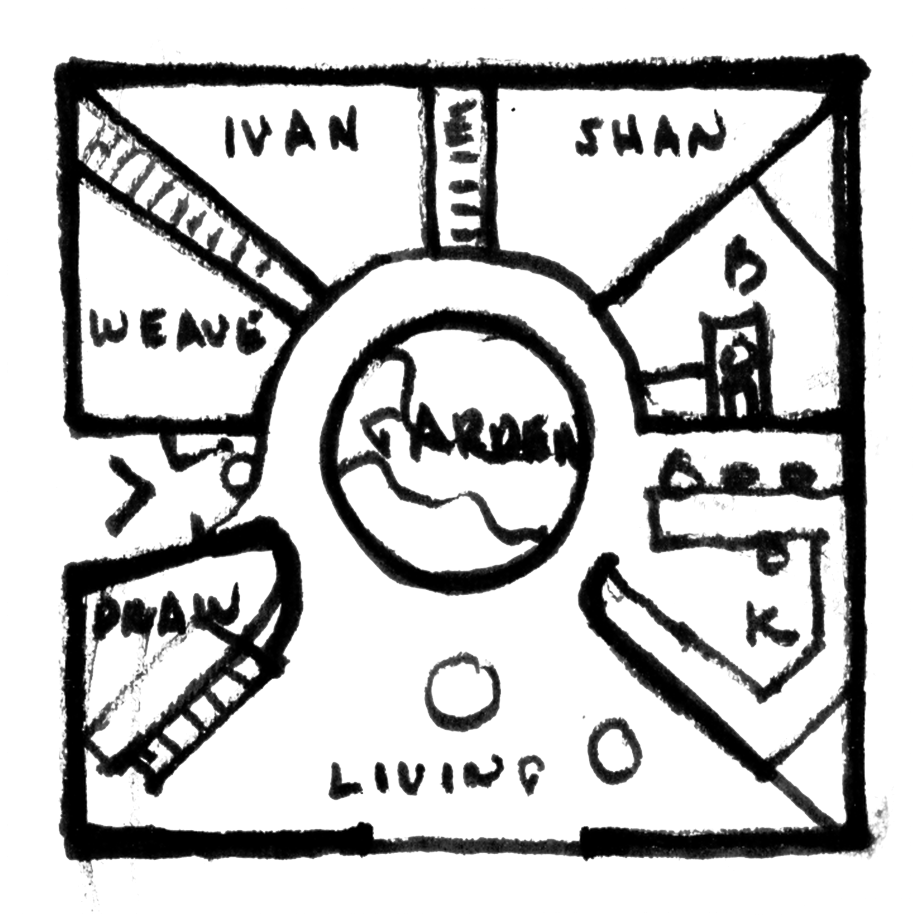
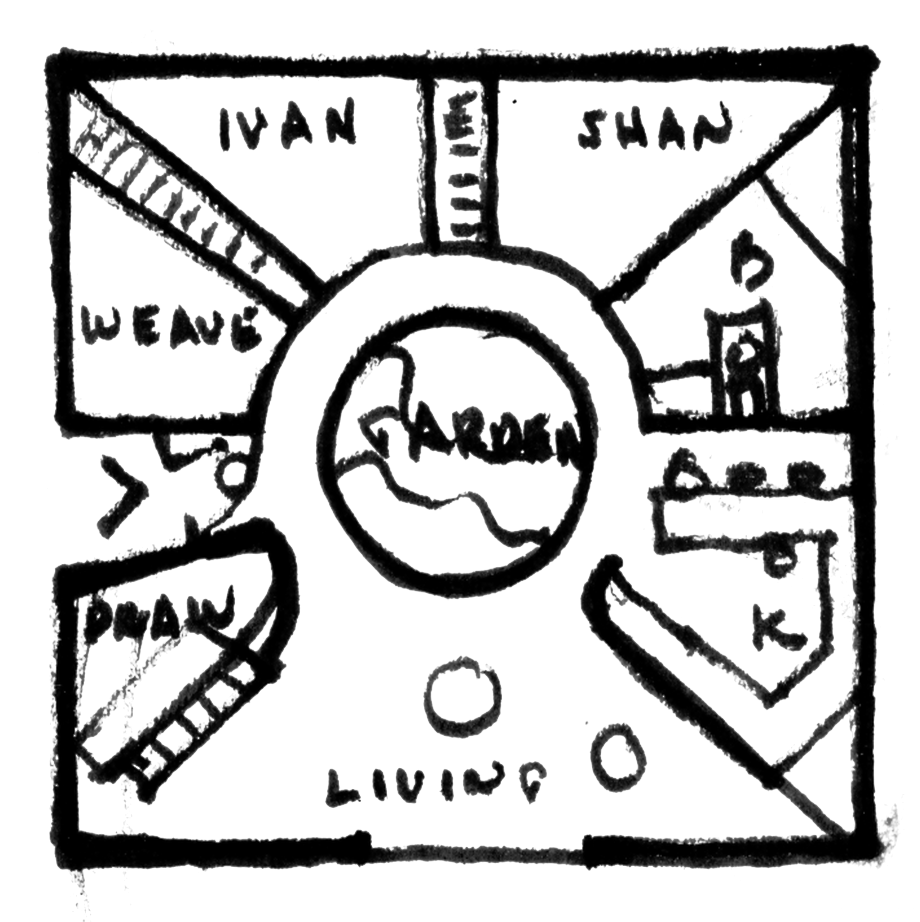
entry-test2 v0.80: realign flying sketch to the updated baked plan; shorter rests
The updated MATCHCUT TIF put the baked sketch a few px off the old
registration constants, so the flying overlay ghosted against it.
Re-derived the landing by template-matching the overlay's ink against
the sheet -> SKB (477,356,1119,999); overlay re-cropped tight to its ink
so the rect maps 1:1. Verified aligned at the crossfade. Also reduced
the three equal sheet rests 0.35 -> 0.2; downstream -0.45.

diff --git a/entry-test2.html b/entry-test2.html
@@ -1,5 +1,5 @@
 <!DOCTYPE html>
-<!-- entry-test2 v0.79 — the sectioned entry (Brandon, 2026-07-21):
+<!-- entry-test2 v0.80 — the sectioned entry (Brandon, 2026-07-21):
      HERO (film loop, no scrim; Hunter's 1970 NAMEBLOCK centred,
        riding off with the photo; wordmark fades in top-left) ->
      HOUSE: the 1970 letter sketch + Hunter's OWN WORDS (L001) beside the
@@ -241,12 +241,12 @@
 <div id="wordmark" style="position:fixed;top:0;left:0;z-index:8;padding:17px 34px;font-weight:800;font-size:14px;letter-spacing:.04em;text-transform:uppercase;color:#1b1918;white-space:nowrap;transform-origin:50% 50%;will-change:transform">Hunter House</div>
 <nav id="menu" aria-label="Site" style="position:fixed;top:0;left:0;right:0;z-index:8;display:flex;justify-content:center;padding:18px 34px;font-family:'JetBrains Mono',Menlo,monospace;font-size:11px;letter-spacing:.16em;text-transform:uppercase;color:rgba(27,25,24,.62);transform:translateY(-110%);opacity:0;will-change:transform,opacity">
   <a data-z="1" style="padding:6px 15px;cursor:pointer">House</a>
-  <a data-z="12.65" style="padding:6px 15px;cursor:pointer">Hunter</a>
-  <a data-z="14.25" style="padding:6px 15px;cursor:pointer">Site</a>
+  <a data-z="12.2" style="padding:6px 15px;cursor:pointer">Hunter</a>
+  <a data-z="13.8" style="padding:6px 15px;cursor:pointer">Site</a>
   <a style="padding:6px 15px">Archive</a>
   <a style="padding:6px 15px">About</a>
 </nav>
-<div id="ver" style="position:fixed;right:12px;bottom:10px;z-index:9;font-family:'JetBrains Mono',Menlo,monospace;font-size:9px;letter-spacing:.06em;color:rgba(27,25,24,.35);pointer-events:none">v0.79</div>
+<div id="ver" style="position:fixed;right:12px;bottom:10px;z-index:9;font-family:'JetBrains Mono',Menlo,monospace;font-size:9px;letter-spacing:.06em;color:rgba(27,25,24,.35);pointer-events:none">v0.80</div>
 
 <script>
 // entry-test2 v0.36 — z: 0..1 the entry photograph (title → wordmark) ·
@@ -281,9 +281,9 @@
   // across the viewport height. Pairs of identical views = dwells.
   var SHEET_VIEWS = [
     { z: 2.00, cx: 814,  cy: 669,  rot: 0,    fit: 830 },   // the square plan, filling the vertical
-    { z: 3.40, cx: 814,  cy: 669,  rot: 0,    fit: 830 },   // plan held: beat + crossfade + its own 0.35 hold; pan starts 3.4
-    { z: 3.90, cx: 795,  cy: 1200, rot: 0,    fit: 565 },   // the MAIN elevation reached
-    { z: 4.25, cx: 795,  cy: 1200, rot: 0,    fit: 565 }    // elevation held 0.35, then the gallery reveal
+    { z: 3.10, cx: 814,  cy: 669,  rot: 0,    fit: 830 },   // plan held: beat + crossfade + 0.2 hold; pan starts 3.1
+    { z: 3.60, cx: 795,  cy: 1200, rot: 0,    fit: 565 },   // the MAIN elevation reached
+    { z: 3.80, cx: 795,  cy: 1200, rot: 0,    fit: 565 }    // elevation held 0.2, then the gallery reveal
   ];
   function sheetView(zv) {
     var V = SHEET_VIEWS;
@@ -357,10 +357,10 @@
     var T0 = 1.75;
     var sheet = document.getElementById("sheet");
     var colPhoto = flow.querySelector(".photocol");
-    var shOn = zr > T0 - 0.001 && zr < 4.70;
+    var shOn = zr > T0 - 0.001 && zr < 4.25;
     sheet.style.visibility = shOn ? "visible" : "hidden";
     var po = document.getElementById("sheet-plan-over");
-    po.style.visibility = (shOn && zr < 3.05) ? "visible" : "hidden";
+    po.style.visibility = (shOn && zr < 2.9) ? "visible" : "hidden";
     reading.style.opacity = zr > T0 ? Math.max(0, 1 - (zr - T0) / 0.3) : 1;
     colPhoto.style.visibility = zr > T0 ? "hidden" : "visible";
     if (shOn) {
@@ -369,15 +369,15 @@
       // measured plan in, sketch out · then the camera moves.
       sheet.style.opacity = Math.min(1, (zr - T0) / 0.3);
       // the last elevation PUSHES UP off the top to reveal the gallery
-      var exitP = ease(Math.max(0, Math.min(1, (zr - 4.25) / 0.4)));
+      var exitP = ease(Math.max(0, Math.min(1, (zr - 3.8) / 0.4)));
       document.querySelector("#sheet .scite").style.opacity = 1 - exitP;
-      document.getElementById("sheet-wrap").style.opacity = Math.max(0, Math.min(1, (zr - 2.40) / 0.35));   // drawing waits out the 0.35 sketch-alone hold
+      document.getElementById("sheet-wrap").style.opacity = Math.max(0, Math.min(1, (zr - 2.25) / 0.35));   // drawing waits out the 0.2 sketch-alone hold
       var eM = ease(Math.max(0, Math.min(1, (zr - T0) / 0.3)));
       var r0 = colPhoto.querySelector("img").getBoundingClientRect();
       // Brandon's registered crop rect (sheet units) projected through the
       // plan-view camera (cx 814, cy 669, fit 830) — the landing IS the
       // registration he set in the drawing file
-      var SKB = { x0: 473.0, y0: 351.5, x1: 1124.8, y1: 1004.8 };
+      var SKB = { x0: 477.0, y0: 356.0, x1: 1119.0, y1: 999.0 };   // baked-sketch box (template-matched to the updated sheet)
       var s0 = window.innerHeight / 830;
       var tL = (SKB.x0 - 814) * s0 + window.innerWidth / 2;
       var tT = (SKB.y0 - 669) * s0 + window.innerHeight / 2;
@@ -385,7 +385,7 @@
       po.style.left  = (r0.left + (tL - r0.left) * eM) + "px";
       po.style.top   = (r0.top  + (tT - r0.top)  * eM) + "px";
       po.style.width = (r0.width + (tW - r0.width) * eM) + "px";
-      po.style.opacity = Math.max(0, Math.min(1, 1 - (zr - 2.70) / 0.35));   // sketch holds alone, then fades
+      po.style.opacity = Math.max(0, Math.min(1, 1 - (zr - 2.55) / 0.35));   // sketch holds alone, then fades
       var v = sheetView(zr);
       var scl = window.innerHeight / v.fit;
       document.getElementById("sheet-wrap").style.transform =
@@ -395,28 +395,28 @@
     // the period gallery — the scroll rides down the stack, one photograph
     // after another (revealed by the curtain, not faded)
     var pg = document.getElementById("pgal");
-    var pIn = Math.max(0, Math.min(1, (zr - 4.25) / 0.4));
-    var pOut = Math.max(0, Math.min(1, (zr - 6.65) / 0.4));
+    var pIn = Math.max(0, Math.min(1, (zr - 3.8) / 0.4));
+    var pOut = Math.max(0, Math.min(1, (zr - 6.2) / 0.4));
     pg.style.visibility = (pIn > 0 && pOut < 1) ? "visible" : "hidden";
     pg.style.opacity = (pIn > 0 ? 1 : 0) * (1 - pOut);
     if (pIn > 0 && pOut < 1) {
       var pcol = document.getElementById("pgal-col");
       var lastFig = pgalFigs[pgalFigs.length - 1];
       var pMax = Math.max(0, lastFig.offsetTop + lastFig.offsetHeight / 2 - window.innerHeight / 2);
-      var pT = Math.max(0, Math.min(1, (zr - 4.65) / 2.0));
+      var pT = Math.max(0, Math.min(1, (zr - 4.2) / 2.0));
       // on the way out the column KEEPS SCROLLING while it fades — the text
       // section follows from below, one continuous movement
       pcol.style.transform = "translateY(" + (-(pT * pMax + ease(pOut) * window.innerHeight * 0.6)) + "px)";
     }
     // the second reading — FRH-0022 left, the addition text line by line
     var r2 = document.getElementById("reading2");
-    var r2In = Math.max(0, Math.min(1, (zr - 6.65) / 0.4));
-    var r2Out = Math.max(0, Math.min(1, (zr - 8.75) / 0.4));
+    var r2In = Math.max(0, Math.min(1, (zr - 6.2) / 0.4));
+    var r2Out = Math.max(0, Math.min(1, (zr - 8.3) / 0.4));
     r2.style.visibility = (r2In > 0 && r2Out < 1) ? "visible" : "hidden";
     r2.style.opacity = (r2In > 0 ? 1 : 0) * (1 - r2Out);
     r2.style.transform = "translateY(" + ((1 - ease(r2In)) * 100) + "vh)";   // arrives from BELOW
     if (r2In > 0 && r2Out < 1) {
-      var z2 = Math.max(0, Math.min(1, (zr - 7.05) / 1.4));
+      var z2 = Math.max(0, Math.min(1, (zr - 6.6) / 1.4));
       var lineH2 = 17 * 1.7, total2 = 0, met2 = [];
       ps2.forEach(function (pp) {
         var lines = Math.max(1, Math.round(pp.getBoundingClientRect().height / lineH2));
@@ -434,14 +434,14 @@
     }
     // CAA-0018 fullscreen — the addition drawing, explorable
     var c18 = document.getElementById("caa18");
-    var cIn18 = Math.max(0, Math.min(1, (zr - 8.75) / 0.4));
-    var cOut18 = Math.max(0, Math.min(1, (zr - 10.15) / 0.4));
+    var cIn18 = Math.max(0, Math.min(1, (zr - 8.3) / 0.4));
+    var cOut18 = Math.max(0, Math.min(1, (zr - 9.7) / 0.4));
     c18.style.visibility = (cIn18 > 0 && cOut18 < 1) ? "visible" : "hidden";
     c18.style.opacity = cIn18 * (1 - cOut18);
     // the Ivan Hunter selection — staggered rise
     var ihc = document.getElementById("ihc");
-    var iIn = Math.max(0, Math.min(1, (zr - 10.15) / 0.4));
-    var iOut = Math.max(0, Math.min(1, (zr - 11.25) / 0.4));
+    var iIn = Math.max(0, Math.min(1, (zr - 9.7) / 0.4));
+    var iOut = Math.max(0, Math.min(1, (zr - 10.8) / 0.4));
     ihc.style.visibility = (iIn > 0 && iOut < 1) ? "visible" : "hidden";
     ihc.style.opacity = iIn * (1 - iOut);
     ihcFigs.forEach(function (fg, i) {
@@ -451,23 +451,23 @@
     });
     // HUNTER
     var hu = document.getElementById("hunter");
-    var hIn = Math.max(0, Math.min(1, (zr - 11.25) / 0.4));
-    var hOut = Math.max(0, Math.min(1, (zr - 12.35) / 0.3));
+    var hIn = Math.max(0, Math.min(1, (zr - 10.8) / 0.4));
+    var hOut = Math.max(0, Math.min(1, (zr - 11.9) / 0.3));
     hu.style.visibility = (hIn > 0 && hOut < 1) ? "visible" : "hidden";
     hu.style.opacity = hIn * (1 - hOut);
     // SITE — a static opening on the bare plan; scroll writes the labels in
-    var zP = Math.max(0, Math.min(1, (zr - 12.35) / 0.3));
-    document.getElementById("site-cue").style.opacity = Math.max(0, Math.min(1, (zr - 12.2) / 0.2)) * (1 - zP);
+    var zP = Math.max(0, Math.min(1, (zr - 11.9) / 0.3));
+    document.getElementById("site-cue").style.opacity = Math.max(0, Math.min(1, (zr - 11.75) / 0.2)) * (1 - zP);
     var sp = document.getElementById("siteplan");
     sp.style.visibility = zP > 0 ? "visible" : "hidden";
     sp.style.opacity = zP;
     sp.style.pointerEvents = zP >= 1 ? "auto" : "none";
-    var zL = Math.max(0, Math.min(1, (zr - 12.85) / 0.6));
+    var zL = Math.max(0, Math.min(1, (zr - 12.4) / 0.6));
     if (window.__labelReveal) { try { window.__labelReveal(zL); } catch (e2) {} }
     // the menu carries the section — bracket the one you're in. Keyed to the
     // scroll TARGET, not the eased z, so the indicator never lags the intent.
     var zrT = Math.max(0, target - Z_HERO);
-    var sec = zrT < 11.25 ? 0 : (zrT < 12.5 ? 1 : 2);
+    var sec = zrT < 10.8 ? 0 : (zrT < 12.05 ? 1 : 2);
     menuLinks.forEach(function (a, i) { a.classList.toggle("on", i === sec); });
   }
 
@@ -704,7 +704,7 @@
     apply();
   }
   function nudge(d) {
-    target = Math.max(0, Math.min(14.55, target + d));
+    target = Math.max(0, Math.min(14.1, target + d));
     if (!raf) raf = requestAnimationFrame(step);
   }
   window.addEventListener("wheel", function (e) { e.preventDefault(); nudge(e.deltaY / 900); }, { passive: false });
@@ -730,7 +730,7 @@
   if (document.fonts && document.fonts.ready) document.fonts.ready.then(function () { apply(); });
 
   apply();
-  console.log("entry-test2 v0.79");
+  console.log("entry-test2 v0.80");
 })();
 </script>
 </body>